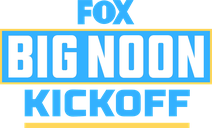
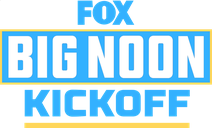
programs: studio-show marks sourced and processed
FIVE OF THE EIGHT art-less studio shows now render a mark. All five went through
scripts/build_brand_marks.py - never a hand-edited PNG, never a hand-edited
manifest - which is the one rule about art sourcing that has never moved
(prompts 25, 34, 38).

| brand        | mark                          | source                                              | aspect | hf    |
|--------------|-------------------------------|-----------------------------------------------------|--------|-------|
| nfltoday     | nfl-today.png                 | en.wikipedia File:The NFL Today logo.png 314x318     | 0.969  | 1.150 |
| fnia         | football-night-in-america.png | en.wikipedia File:Football Night in America logo.png | 1.758  | 1.150 |
| nflcountdown | sunday-nfl-countdown.png      | en.wikipedia File:Sunday NFL Countdown logo.svg      | 1.906  | 1.150 |
| mnfcountdown | monday-night-countdown.png    | en.wikipedia File:Monday Night Countdown logo.svg    | 1.281  | 1.112 |
| foxnflsunday | fox-nfl-sunday.png            | commons File:FOX NFL Sunday.png 388x395              | 0.984  | 1.092 |

All fetched 2026-09-06. Provenance is recorded per row in the PROGRAMS table
and in the published manifest's new `source` field: a mark with no recorded
source does not ship.

NOT SOURCED - three of eight: foxnflkickoff, tnfpregame, netflixpregame. The
only Fox Kickoff art findable is the generic Fox Sports wordmark, which is the
[…]

diff --git a/scripts/build_brand_marks.py b/scripts/build_brand_marks.py
@@ -231,7 +231,8 @@ def build_leagues(out_dir: Path) -> list[dict[str, Any]]:
         rows.append({"slug": slug, "raw_lum": lum(raw), "dark_lum": lum(dark),
                      "dark_source": how, "aspect": aspect(raw)})
         print("  league %-8s raw %-11s dark %-11s" % (slug, "%dx%d" % raw.size, "%dx%d" % dark.size))
-    (out_dir / "leagues-manifest.json").write_text(json.dumps(rows, indent=2) + "\n", encoding="utf-8")
+    (out_dir / "leagues-manifest.json").write_text(
+        json.dumps(rows, indent=2) + "\n", encoding="utf-8", newline="\n")
     return rows
 
 
@@ -260,14 +261,66 @@ def target() -> float:
     return statistics.median(vals) if vals else 1.0
 
 
-# Frozen in the 2026-09-02 design session.
-PROGRAMS: list[tuple[str, str, str]] = [
-    ("big-noon-kickoff", "svg", "floor_l 0.55 (FOX blue lifted; white + yellow untouched)"),
+# THE PROGRAM MARK TABLE.  (slug, source kind, treatment, recipe note, provenance)
+#
+# The first two were frozen in the 2026-09-02 design session and their sources were supplied. The
+# five added on 2026-09-06 (prompt 52 stage 7) were SOURCED FROM THE PUBLIC INTERNET, which prompts
+# 25, 34 and 38 forbade ("if the source art is not in assets/, stop and report") and which Joe lifted
+# FOR THAT RUN ONLY so the logos could land unattended. The next prompt inherits the old rule unless
+# it says otherwise.
+#
+# PROVENANCE IS MANDATORY - a mark with no recorded source does not ship. The quality floor is on the
+# FILE, not the source: >=256px on the long edge (or vector), transparent or a flat background that
+# keys cleanly, no watermark, no comp overlay, no JPEG ringing.
+#
+# `treatment` is a callable applied at WORK_H, replacing the per-slug `if slug == ...` branch that
+# build_programs() used to carry for Big Noon alone.
+PROGRAMS: list[tuple[str, str, Any, str, str]] = [
+    ("big-noon-kickoff", "svg", lambda im: floor_l(im, 0.55),
+     "floor_l 0.55 (FOX blue lifted; white + yellow untouched)",
+     "supplied 2026-09-02 design session"),
     # The sponsor-free shield was rebuilt by hand; the source PNG IS the deliverable, so any recipe
     # here would only degrade it. Its dark body is legal under the NHL/ABC ruling: it reads by rim
     # and white text, and lifting it would produce the grey plate the no-plate rule forbids.
-    ("college-gameday", "png", "RAW — sponsor block removed, shield rebuilt; dark body reads by "
-                               "rim + white text (NHL/ABC ruling)"),
+    ("college-gameday", "png", None,
+     "RAW — sponsor block removed, shield rebuilt; dark body reads by rim + white text "
+     "(NHL/ABC ruling)",
+     "supplied 2026-09-02 design session"),
+
+    # ---- added 2026-09-06, prompt 52 stage 7 -------------------------------------------------
+    # Flat WHITE plate, keyed by flooding inward from the border (key_white - the same reason
+    # IndyCar floods rather than keying a colour globally: a global test would delete that colour
+    # INSIDE the artwork too). What is left is the navy shield with white text, which reads on
+    # charcoal by body + text under the NHL/ABC ruling.
+    ("nfl-today", "png", key_white,
+     "key_white — flat white plate flooded out; navy shield reads by body + white text",
+     "en.wikipedia.org File:The NFL Today logo.png, 314x318 PNG, fetched 2026-09-06"),
+
+    # Transparent already, but the wordmark is BLACK - invisible on charcoal. whiten_below_gap lifts
+    # the dark ink and leaves the NBC peacock and the NFL shield their own colours.
+    ("football-night-in-america", "png", lambda im: whiten_below_gap(im, 0.42),
+     "whiten_below_gap 0.42 — black wordmark lifted; peacock and NFL shield keep their colour",
+     "en.wikipedia.org File:Football Night in America logo.png, 419x238 PNG, fetched 2026-09-06"),
+
+    # Same shape of problem, from a vector source: black type, ESPN red, NFL shield in colour.
+    ("sunday-nfl-countdown", "svg", lambda im: whiten_below_gap(im, 0.42),
+     "whiten_below_gap 0.42 — black type lifted; ESPN red and the NFL shield untouched",
+     "en.wikipedia.org File:Sunday NFL Countdown logo.svg, vector, fetched 2026-09-06"),
+
+    # RAW. A dark shield with a silver rim and white type - the NHL/ABC case exactly, where lifting
+    # would produce the grey backing plate contract v1.3e forbids.
+    ("monday-night-countdown", "svg", None,
+     "RAW — dark shield reads by silver rim + white type (NHL/ABC ruling)",
+     "en.wikipedia.org File:Monday Night Countdown logo.svg, vector, fetched 2026-09-06"),
+
+    # Flat BLACK plate, keyed the same way the white one is - key_white samples the BORDER rather
+    # than assuming a colour, so it handles either. What survives is the white FOX, the yellow NFL
+    # band and the white SUNDAY, which is a better charcoal rendering than the plated original.
+    # RETIRED LOCKUP: this is the classic mark, not Fox's current branding. Shipped and flagged.
+    ("fox-nfl-sunday", "png", key_white,
+     "key_white — flat black plate flooded out; white FOX + yellow NFL band + white SUNDAY. "
+     "RETIRED LOCKUP, not the current Fox branding",
+     "commons.wikimedia.org File:FOX NFL Sunday.png, 388x395 PNG, fetched 2026-09-06"),
 ]
 
 
@@ -276,7 +329,7 @@ def build_programs(out_dir: Path) -> list[dict[str, Any]]:
     tmp = Path(tempfile.mkdtemp(prefix="mysports-prog-"))
     tgt = target()
     rows: list[dict[str, Any]] = []
-    for slug, kind, recipe in PROGRAMS:
+    for slug, kind, treatment, recipe, source in PROGRAMS:
         if kind == "svg":
             out = tmp / ("%s.png" % slug)
             if not rasterize(PROG_SRC / ("%s.svg" % slug), out, PROG_RASTER_H):
@@ -291,16 +344,22 @@ def build_programs(out_dir: Path) -> list[dict[str, Any]]:
             im = Image.open(p).convert("RGBA")
 
         work = resize_h(trim(im), WORK_H)
-        work = floor_l(work, 0.55) if slug == "big-noon-kickoff" else work
+        # The treatment is per-row now, not a per-slug branch. Big Noon's floor_l 0.55 is
+        # unchanged; it just lives in the table beside its note instead of inside an `if`.
+        if treatment is not None:
+            work = treatment(work)
         pub = resize_h(trim(work), PROG_H)
         area = ink_area(pub)
         hf = round(min(HF_MAX, max(HF_MIN, (tgt / area) ** 0.5 if area else 1.0)), 3)
         pub.save(out_dir / ("%s.png" % slug), "PNG", optimize=True)
-        rows.append({"slug": slug, "hf": float(hf), "recipe": recipe,
+        rows.append({"slug": slug, "hf": float(hf), "recipe": recipe, "source": source,
+                     "w": int(pub.width), "h": int(pub.height),
                      "ink_area": round(area), "target": round(tgt), "lum": lum(pub)})
         print("  program %-18s %-9s hf %.3f ink %d (target %d)"
               % (slug, "%dx%d" % pub.size, hf, round(area), round(tgt)))
-    (out_dir / "manifest.json").write_text(json.dumps(rows, indent=2) + "\n", encoding="utf-8")
+    # newline= is working rule 29 - the same fix build_web_marks.py needed.
+    (out_dir / "manifest.json").write_text(
+        json.dumps(rows, indent=2) + "\n", encoding="utf-8", newline="\n")
     return rows
 
 
